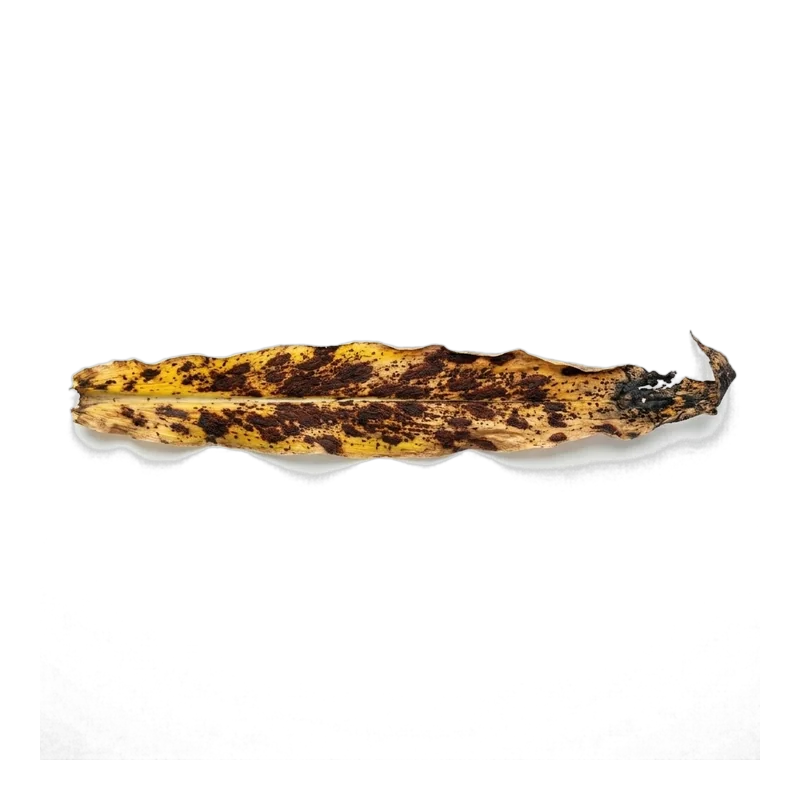
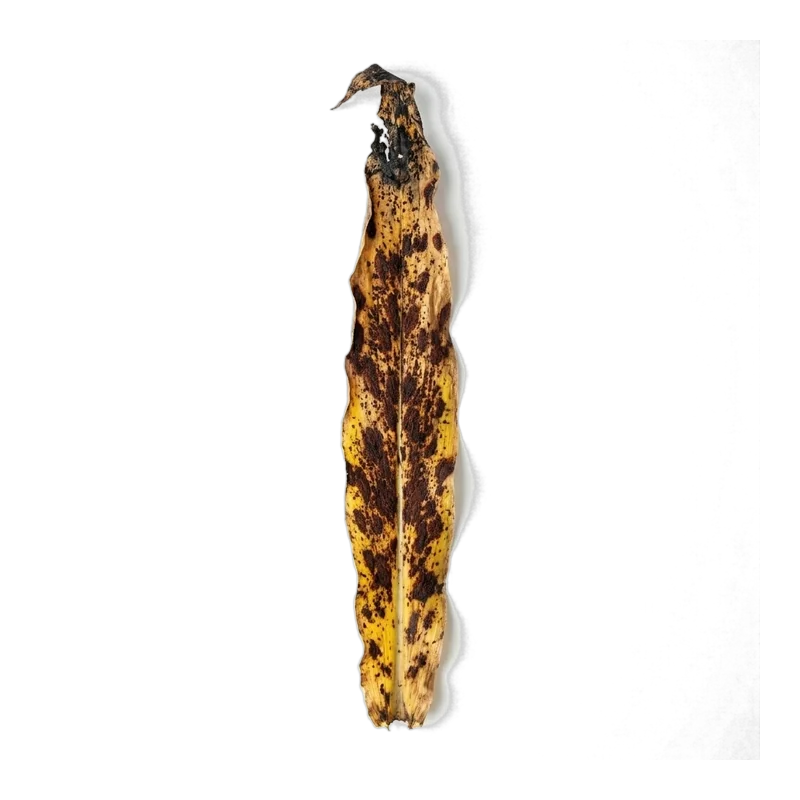
fix(p2p-experimental): orient tomato and corn vertically with base at bottom
- Rotated tomato and corn plates 90 degrees counter-clockwise so the plant base/stem is at the bottom and leaves point upward
- Re-computed GLSL companion difference masks with alpha-isolated black background
- Updated tomato anatomical symptom hotspots in hotspotRegistry.ts to match the vertical orientation
- Maintained 0 diffs on /disease-progression and frontend/public/progression/
- Verified all 6 8-crop test suites, asset suites, oxlint, and vite build

Changed region(s): [[0.0625, 0.0625, 0.9375, 0.9375]]

diff --git a/frontend/src/p2p-experimental/models/hotspotRegistry.ts b/frontend/src/p2p-experimental/models/hotspotRegistry.ts
@@ -37,8 +37,8 @@ export const SYMPTOM_HOTSPOTS_REGISTRY: Record<SupportedCropId, SymptomHotspot[]
       cropId: 'tomato',
       title: 'Target-Board Concentric Rings',
       subtitle: 'Alternaria solani Conidiophore Sporulation Zone',
-      xPct: 48,
-      yPct: 44,
+      xPct: 44,
+      yPct: 52,
       minSliderPct: 30.0,
       stageOrder: 1,
       badgeLabel: 'Stage 1 • Diagnostic Key',
@@ -56,7 +56,7 @@ export const SYMPTOM_HOTSPOTS_REGISTRY: Record<SupportedCropId, SymptomHotspot[]
       cropId: 'tomato',
       title: 'Chlorotic Yellow Halo',
       subtitle: 'Alternaric Acid Phytotoxin Diffusion Zone',
-      xPct: 62,
+      xPct: 38,
       yPct: 38,
       minSliderPct: 35.0,
       stageOrder: 1,
@@ -75,7 +75,7 @@ export const SYMPTOM_HOTSPOTS_REGISTRY: Record<SupportedCropId, SymptomHotspot[]
       cropId: 'tomato',
       title: 'Marginal Tissue Collapse & Defoliation',
       subtitle: 'Terminal Blight Abscission Zone',
-      xPct: 32,
+      xPct: 68,
       yPct: 68,
       minSliderPct: 72.0,
       stageOrder: 2,

diff --git a/frontend/scripts/process_remake_4crops_assets.py b/frontend/scripts/process_remake_4crops_assets.py
@@ -111,6 +111,14 @@ def main():
         raw_s0 = Image.open(paths["s0"])
         raw_s1 = Image.open(paths["s1"])
         raw_s2 = Image.open(paths["s2"])
+
+        # Tomato and Corn botanical plates are oriented horizontally with base on the left;
+        # Rotate 90 degrees counter-clockwise (ROTATE_90) so plant base is at bottom and tip at top.
+        if crop_id in ["tomato", "corn"]:
+            print(f"    Rotating {crop_id} 90 degrees so plant base is at bottom...")
+            raw_s0 = raw_s0.transpose(Image.Transpose.ROTATE_90)
+            raw_s1 = raw_s1.transpose(Image.Transpose.ROTATE_90)
+            raw_s2 = raw_s2.transpose(Image.Transpose.ROTATE_90)
         
         # Cutout white background and normalize to 800x800 RGBA
         s0_rgba = normalize_to_target_spec(remove_white_background(raw_s0))
